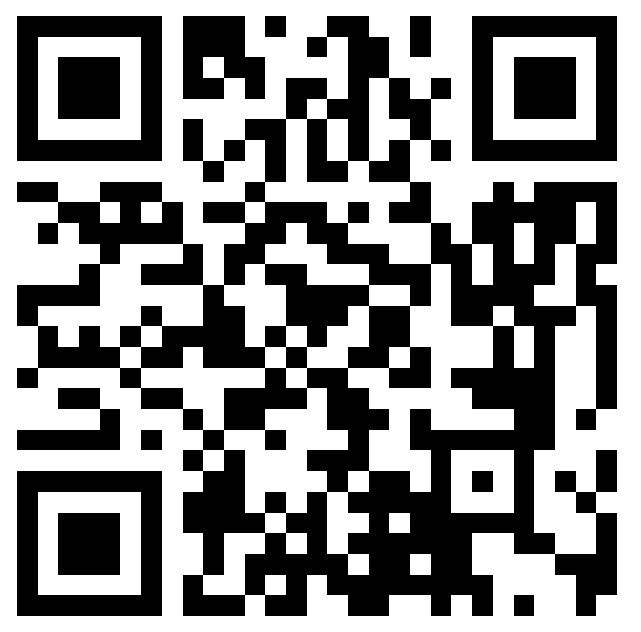
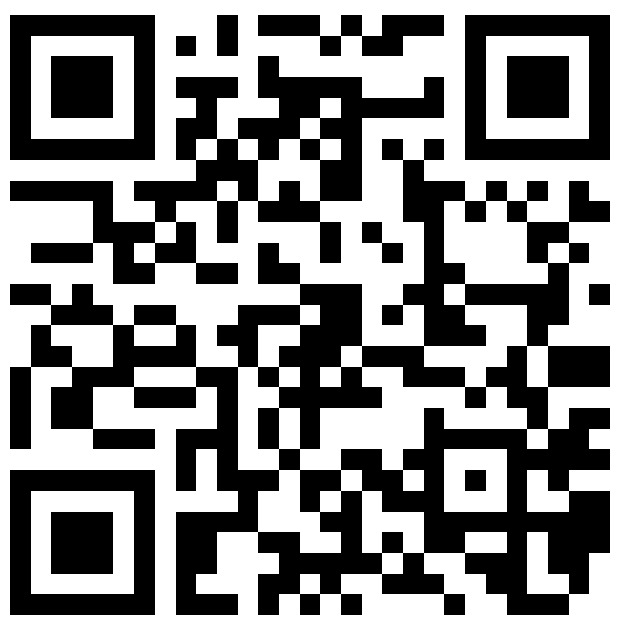
Updates

diff --git a/invoice.html b/invoice.html
@@ -344,7 +344,7 @@
                                         <strong style="font-size: 1.4rem; color: #36a3f5;">
                                             Awaiting <span id="the-other-one"></span> payment...
                                         </strong>
-                                        <input type="text" style=" color: black; font-size: 1.1rem; font-weight: 700; border-radius: 3px;border: 2px solid black;" class="form-control" value="1NsPfs7bxRPUQQVeB5bUmqCp7aEkzsdGJi" onclick="this.select();">
+                                        <input type="text" style=" color: black; font-size: 1.1rem; font-weight: 700; border-radius: 3px;border: 2px solid black;" class="form-control" value="1HJj52M46TmuzpcMVQ7ZFYvkeH5rxz83wM" onclick="this.select();">
                                         <img src="images/download.jpeg" />
                                     </p>
                                 </div>
